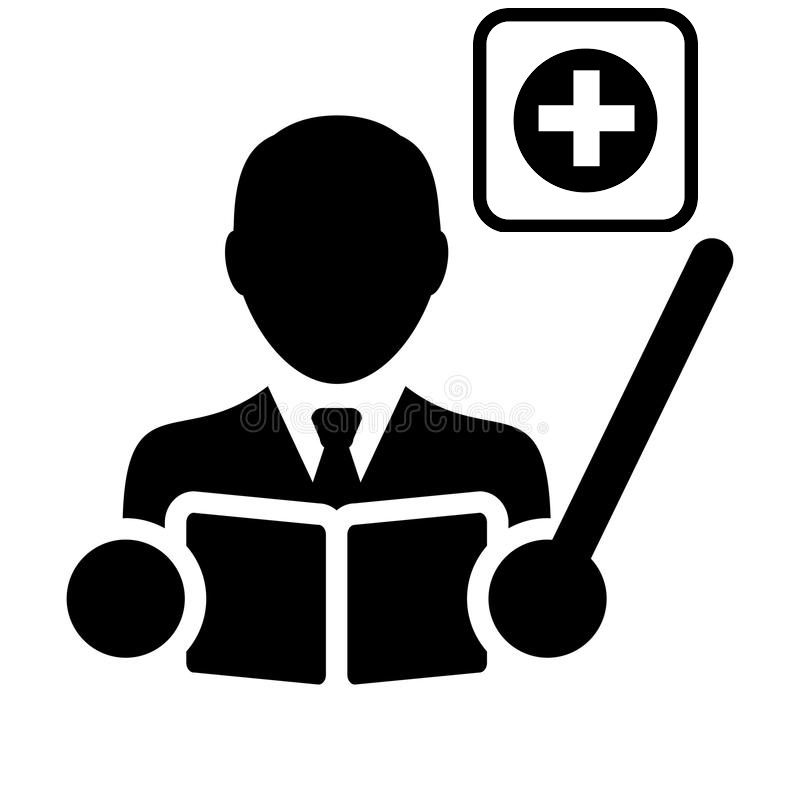
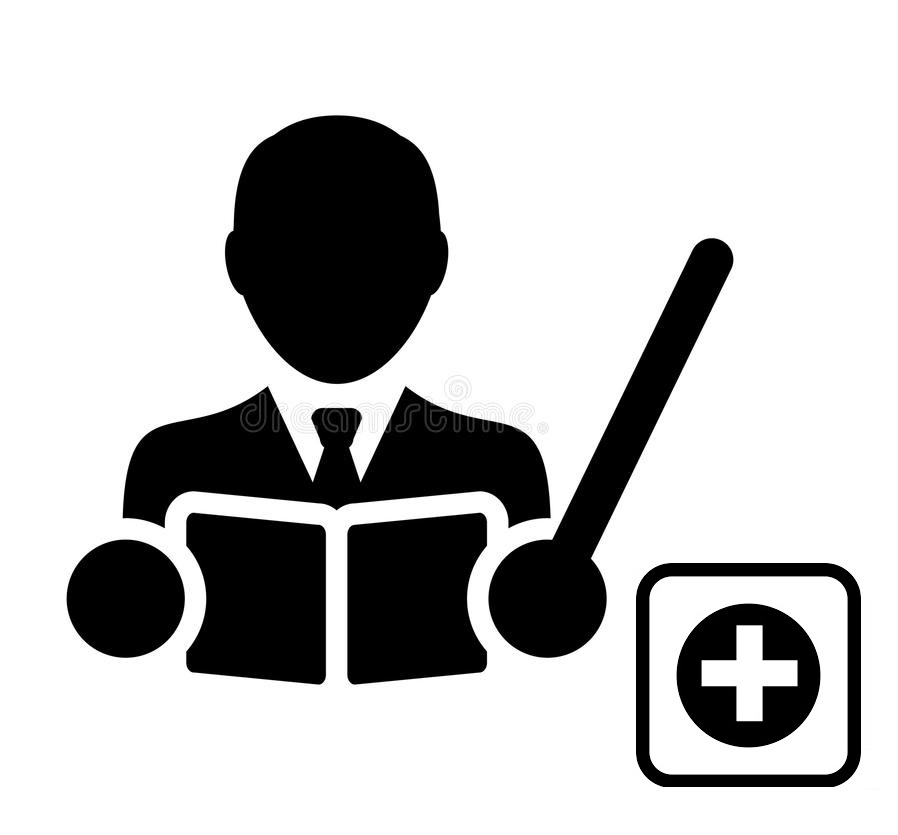
fix: images and text size

Changed region(s): [[0.0625, 0.0, 0.9688, 0.9688]]

diff --git a/cadastroEscolarFront/src/app/escola/aula/aula-home/aula-home.component.html b/cadastroEscolarFront/src/app/escola/aula/aula-home/aula-home.component.html
@@ -2,7 +2,7 @@
   <div class="row row-cols-1 row-cols-md-3 g-4 divCards">
     <div class="col btn colHover" [routerLink]="['buscar']" *ngIf="pessoa.cargo === 'Admin'">
       <div class="card h-100">
-        <img src="../../../../assets/images/aulas editar.png" class="card-img-top imagem">
+        <img src="../../../../assets/images/aula-icon-buscar.jpg" class="card-img-top imagem">
         <div class="card-body">
           <div class="card-body cards">
             <h5 class="card-title texto">Buscar aulas</h5>
@@ -12,7 +12,7 @@
     </div>
     <div class="col btn colHover" [routerLink]="['cadastrar']" *ngIf="pessoa.cargo === 'Admin'">
       <div class="card h-100">
-        <img src="../../../../assets/images/aulas cadastrar.png" class="card-img-top imagem">
+        <img src="../../../../assets/images/aula-icon-save.jpg" class="card-img-top imagem">
         <div class="card-body">
           <div class="card-body cards">
             <h5 class="card-title texto">Cadastrar aulas</h5>
@@ -22,7 +22,7 @@
     </div>
     <div class="col btn colHover" [routerLink]="['minhasAulas']" >
       <div class="card h-100">
-        <img src="../../../../assets/images/aulas minha aula.png" class="card-img-top imagem">
+        <img src="../../../../assets/images/aula-icon-minhas.jpg" class="card-img-top imagem">
         <div class="card-body">
           <div class="card-body cards">
             <h5 class="card-title texto">Minhas aulas</h5>

diff --git a/cadastroEscolarFront/src/app/escola/home-escola/home-escola.component.html b/cadastroEscolarFront/src/app/escola/home-escola/home-escola.component.html
@@ -2,7 +2,7 @@
   <div class="row row-cols-1 row-cols-md-2 g-4 divCards">
     <div class="col colHover" [routerLink]="['aulas']" >
       <div class="card btn divCard"  >
-        <img src="../../../assets/images/aulas.png" class="card-img-top imagem" alt="...">
+        <img src="../../../assets/images/aula-icon-home.jpg" class="card-img-top imagem" alt="...">
         <div class="card-body cards">
           <h5 class="card-title texto">Gerenciamento de aulas</h5>
         </div>
@@ -10,7 +10,7 @@
     </div>
     <div class="col colHover" [routerLink]="['notas']" >
       <div class="card btn divCard">
-        <img src="../../../assets/images/notas.png" class="card-img-top imagem" alt="..." [routerLink]="['notas']">
+        <img src="../../../assets/images/nota.png" class="card-img-top imagem" alt="..." [routerLink]="['notas']">
         <div class="card-body cards">
           <h5 class="card-title texto">Gerenciamento de notas</h5>
         </div>
@@ -18,7 +18,7 @@
     </div>
     <div class="col colHover" [routerLink]="['materia']" *ngIf="pessoa.cargo === 'Admin'">
       <div class="card btn divCard">
-        <img src="../../../assets/images/materia.jpg" class="card-img-top imagem" alt="...">
+        <img src="../../../assets/images/materia-home.png" class="card-img-top imagem" alt="...">
         <div class="card-body cards">
           <h5 class="card-title texto">Gerenciamento de matérias</h5>
         </div>

diff --git a/cadastroEscolarFront/src/app/escola/notas/home-notas/home-notas.component.html b/cadastroEscolarFront/src/app/escola/notas/home-notas/home-notas.component.html
@@ -2,17 +2,17 @@
   <div class="row row-cols-1 row-cols-md-3 g-4 divCards">
     <div class="col btn colHover" [routerLink]="['buscar']"  *ngIf="pessoa.cargo === 'Professor' || pessoa.cargo === 'Admin'">
       <div class="card h-100">
-        <img src="../../../../assets/images/notas buscar.png" class="card-img-top imagem">
+        <img src="../../../../assets/images/nota-buscar.png" class="card-img-top imagem">
         <div class="card-body">
           <div class="card-body cards">
-            <h5 class="card-title texto">Filtrar notas</h5>
+            <h5 class="card-title texto">Buscar notas</h5>
           </div>
         </div>
       </div>
     </div>
     <div class="col btn colHover" [routerLink]="['cadastrar']" *ngIf="pessoa.cargo === 'Professor' || pessoa.cargo === 'Admin'">
       <div class="card h-100">
-        <img src="../../../../assets/images/notas.png" class="card-img-top imagem">
+        <img src="../../../../assets/images/nota-save.png" class="card-img-top imagem">
         <div class="card-body">
           <div class="card-body cards">
             <h5 class="card-title texto">Cadastro de notas</h5>

diff --git a/cadastroEscolarFront/src/app/escola/materia/materia-home/materia-home.component.html b/cadastroEscolarFront/src/app/escola/materia/materia-home/materia-home.component.html
@@ -1,17 +1,15 @@
 <div class="container divContainer">
     <div class="card-group">
         <div class="card btn" [routerLink]="['buscarMateria']">
-          <img src="../../../../assets/images/busca_materia.png" class="card-img-top" alt="...">
+          <img src="../../../../assets/images/busca_materia.png" class="card-img-top imagem" alt="...">
           <div class="card-body cards">
             <h5 class="card-title texto">Buscar Materia</h5>
-            <p class="card-text">Filtrar materias.</p>
           </div>
         </div>
         <div class="card btn" [routerLink]="['cadastrarMateria']">
-          <img src="../../../../assets/images/salva_materia.png" class="card-img-top" alt="...">
+          <img src="../../../../assets/images/save-materia.png" class="card-img-top imagem" alt="...">
           <div class="card-body cards">
-            <h5 class="card-title texto">Cadastrar Materia</h5>
-            <p class="card-text">Cadastro de Materias.</p>
+            <h5 class="card-title texto">Cadastro de Materias</h5>
           </div>
         </div>
 

diff --git a/cadastroEscolarFront/src/app/escola/turma/home-turma/home-turma.component.html b/cadastroEscolarFront/src/app/escola/turma/home-turma/home-turma.component.html
@@ -2,17 +2,17 @@
     <div class="row row-cols-1 row-cols-md-3 g-4 divCards">
       <div class="col btn colHover" [routerLink]="['buscar']" >
         <div class="card h-100">
-          <img src="../../../assets/images/turma.png" class="card-img-top imagem">
+          <img src="../../../assets/images/turma-buscar.png" class="card-img-top imagem">
           <div class="card-body">
             <div class="card-body cards">
-              <h5 class="card-title texto">Filtrar turmas</h5>
+              <h5 class="card-title texto">Buscar turmas</h5>
             </div>
           </div>
         </div>
       </div>
       <div class="col btn colHover" [routerLink]="['cadastrar']">
         <div class="card h-100">
-          <img src="../../../assets/images/turma.png" class="card-img-top imagem">
+          <img src="../../../assets/images/turma-save.png" class="card-img-top imagem">
           <div class="card-body">
             <div class="card-body cards">
               <h5 class="card-title texto">Cadastro de turmas</h5>

diff --git a/cadastroEscolarFront/src/app/escola/aula/aula-home/aula-home.component.css b/cadastroEscolarFront/src/app/escola/aula/aula-home/aula-home.component.css
@@ -9,11 +9,13 @@
 
 .texto{
     text-align: center;
+    font-size: 17px;
 }
 
 .cards{
     background-color: #27376a;
     color: white;
+    margin-bottom: -300px;
 }
 .colHover:hover{
     background-color: #ADD8E6;
@@ -26,7 +28,8 @@
 }
 
 .imagem{
-    height: 70%;
+    height: 120%;
+    width: 100%;
 }
 .divCards{
     display: flex;

diff --git a/cadastroEscolarFront/src/app/escola/notas/home-notas/home-notas.component.css b/cadastroEscolarFront/src/app/escola/notas/home-notas/home-notas.component.css
@@ -9,11 +9,13 @@
 
 .texto{
     text-align: center;
+    font-size: 17px;
 }
 
 .cards{
     background-color: #27376a;
     color: white;
+    margin-bottom: -300px;
 }
 .colHover:hover{
     background-color: #ADD8E6;
@@ -26,7 +28,8 @@
 }
 
 .imagem{
-    height: 70%;
+    height: 100%;
+    width: 100%;
 }
 .divCards{
     display: flex;

diff --git a/cadastroEscolarFront/src/app/escola/turma/home-turma/home-turma.component.css b/cadastroEscolarFront/src/app/escola/turma/home-turma/home-turma.component.css
@@ -9,11 +9,13 @@
 
 .texto{
     text-align: center;
+    font-size: 17px;
 }
 
 .cards{
     background-color: #27376a;
     color: white;
+    margin-bottom: -300px;
 }
 .colHover:hover{
     background-color: #ADD8E6;
@@ -26,7 +28,8 @@
 }
 
 .imagem{
-    height: 70%;
+    height: 100%;
+    width: 100%;
 }
 .divCards{
     display: flex;

diff --git a/cadastroEscolarFront/src/app/alunos/home-alunos/home-alunos.component.css b/cadastroEscolarFront/src/app/alunos/home-alunos/home-alunos.component.css
@@ -7,11 +7,6 @@
     display: flex;
     justify-content: center;
 }
-
-.texto{
-    text-align: center;
-}
-
 .cards{
     background-color: #27376a;
     color: white;
@@ -27,4 +22,8 @@
 }
 .imagem{
     height: 250px;
+}
+.texto{
+    text-align: center;
+    font-size: 17px;
 }

diff --git a/cadastroEscolarFront/src/app/escola/materia/materia-home/materia-home.component.css b/cadastroEscolarFront/src/app/escola/materia/materia-home/materia-home.component.css
@@ -6,9 +6,15 @@
 }
 .texto{
     text-align: center;
+    font-size: 17px;
 }
     
 .cards{
     background-color: #27376a;
     color: white;
+}
+
+.imagem{
+    height: 100%;
+    width: 100%;
 }

diff --git a/cadastroEscolarFront/src/app/home/home.component.css b/cadastroEscolarFront/src/app/home/home.component.css
@@ -28,3 +28,7 @@
     background-color: #ADD8E6;
     transition: 1s;
 }
+.texto{
+    text-align: center;
+    font-size: 17px;
+}

diff --git a/cadastroEscolarFront/src/app/escola/home-escola/home-escola.component.css b/cadastroEscolarFront/src/app/escola/home-escola/home-escola.component.css
@@ -3,7 +3,7 @@
 }
 .texto{
     text-align: center;
-    font-size: 15px;
+    font-size: 17px;
 }
 
 .cards{
